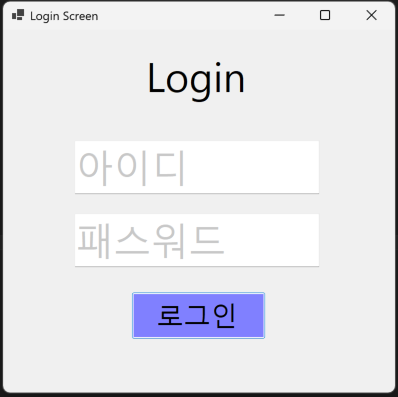
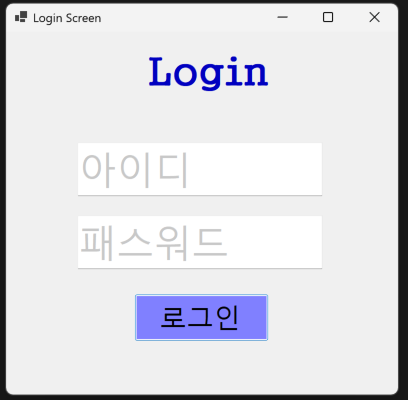
과제2 코딩과 테스트 완료
로그인 실패 시 화면에 에러 메시지가 표시되도록 구현함
Label 컨트롤과 Visible 속성을 사용하여 오류 메시지 표시 기능 추

diff --git a/Form1.Designer.cs b/Form1.Designer.cs
@@ -32,15 +32,17 @@
             txtID = new TextBox();
             btnLogin = new Button();
             txtPW = new TextBox();
+            lblErrorMsg = new Label();
             SuspendLayout();
             // 
             // lblAppName
             // 
             lblAppName.AutoSize = true;
-            lblAppName.Font = new Font("맑은 고딕", 30F);
+            lblAppName.Font = new Font("궁서", 30F, FontStyle.Bold, GraphicsUnit.Point, 129);
+            lblAppName.ForeColor = Color.FromArgb(0, 0, 192);
             lblAppName.Location = new Point(268, 39);
             lblAppName.Name = "lblAppName";
-            lblAppName.Size = new Size(245, 106);
+            lblAppName.Size = new Size(278, 80);
             lblAppName.TabIndex = 3;
             lblAppName.Text = "Login";
             // 
@@ -54,6 +56,7 @@
             txtID.TabIndex = 1;
             txtID.Text = "아이디";
             txtID.Enter += txtID_Enter;
+            txtID.KeyDown += txtID_KeyDown;
             txtID.Leave += txtID_Leave;
             // 
             // btnLogin
@@ -61,7 +64,7 @@
             btnLogin.BackColor = Color.FromArgb(128, 128, 255);
             btnLogin.Font = new Font("맑은 고딕", 20F);
             btnLogin.ForeColor = Color.Black;
-            btnLogin.Location = new Point(257, 525);
+            btnLogin.Location = new Point(249, 555);
             btnLogin.Name = "btnLogin";
             btnLogin.Size = new Size(268, 94);
             btnLogin.TabIndex = 0;
@@ -79,13 +82,26 @@
             txtPW.TabIndex = 2;
             txtPW.Text = "패스워드";
             txtPW.Enter += txtPW_Enter;
+            txtPW.KeyDown += txtPW_KeyDown;
             txtPW.Leave += txtPW_Leave;
+            // 
+            // lblErrorMsg
+            // 
+            lblErrorMsg.AutoSize = true;
+            lblErrorMsg.ForeColor = Color.Red;
+            lblErrorMsg.Location = new Point(143, 490);
+            lblErrorMsg.Name = "lblErrorMsg";
+            lblErrorMsg.Size = new Size(459, 32);
+            lblErrorMsg.TabIndex = 4;
+            lblErrorMsg.Text = "아이디 또는 비밀번호가 잘못 되었습니다.";
+            lblErrorMsg.Visible = false;
             // 
             // Form1
             // 
             AutoScaleDimensions = new SizeF(14F, 32F);
             AutoScaleMode = AutoScaleMode.Font;
             ClientSize = new Size(784, 726);
+            Controls.Add(lblErrorMsg);
             Controls.Add(txtPW);
             Controls.Add(btnLogin);
             Controls.Add(txtID);
@@ -103,5 +119,6 @@
         private TextBox txtID;
         private Button btnLogin;
         private TextBox txtPW;
+        private Label lblErrorMsg;
     }
 }

diff --git a/Form1.cs b/Form1.cs
@@ -7,6 +7,11 @@ namespace LoginScreen
             InitializeComponent();
         }
 
+        private void Form1_Load(object sender, EventArgs e)
+        {
+            // 폼 로드 시 필요한 코드가 있다면 여기에 작성하세요.
+        }
+
         private void txtID_Enter(object sender, EventArgs e)
         {
             if (txtID.Text == "아이디")
@@ -45,10 +50,6 @@ namespace LoginScreen
             }
         }
 
-        private void Form1_Load(object sender, EventArgs e)
-        {
-
-        }
 
         string myID = "admin";
         string myPW = "superman";
@@ -60,11 +61,36 @@ namespace LoginScreen
             if (inputID == myID && inputPW == myPW)
             {
                 MessageBox.Show("로그인 성공!");
+                lblErrorMsg.Visible = false;
             }
             else
             {
-                MessageBox.Show("로그인 실패~");
+                // MessageBox.Show("로그인 실패~");
+
+                // MessageBox.Show("아이디 또는 패스워드가 잘못 입력되었습니다.", "Error", MessageBoxButtons.OK, MessageBoxIcon.Error);
+
+                lblErrorMsg.Visible = true;
             }
+        }
+
+        private void txtID_KeyDown(object sender, KeyEventArgs e)
+        {
+            if (e.KeyCode == Keys.Enter)
+            {
+                e.SuppressKeyPress = true; // 기본 비프음 방지
+                txtPW.Focus(); // 패스워드 입력창이 포커스를 갖게끔
+            }
+
+        }
+
+        private void txtPW_KeyDown(object sender, KeyEventArgs e)
+        {
+            if (e.KeyCode == Keys.Enter)
+            {
+                e.SuppressKeyPress = true; // 기본 비프음 방지
+                btnLogin.PerformClick(); // 버튼이 눌린 것처럼 만들기
+            }
+
         }
     }
 }

diff --git a/README.md b/README.md
@@ -38,3 +38,21 @@
 - 구현 내용과 기능 설명
 	- 처음 실행시 입력 포커스가 버튼으로 가도록 조정.
 	- 아이디와 패스워드를 입력 받는 창에 안내 문구가 표시되도록 구현.
+
+
+## 실행 화면 (과제2)
+- 과제2 코드의 실행 스크린샷
+
+
+![과제2 실행화면](img/img4.png)
+
+
+- 과제 내용
+	- 로그인 실패 시 MessageBox 대신 비밀번호 입력창 아래에 에러 메시지를 표시.
+	- Label 컨트롤을 추가하여 오류 메시지를 출력.
+	- Label의 Visible 속성을 사용하여 평소에는 숨기고, 로그인 실패 시 보이도록 구현함.
+
+- 구현 내용과 기능 설명
+	- 로그인에 성공하면 에러 메시지 Label은 보이지 않도록 설정함.
+	- 로그인에 실패하면 "아이디 또는 비밀번호가 잘못 되었습니다." 문구가 화면에 표시되도록함.
+	- 기존 과제1에서 사용한 로그인 화면을 유지하면서, 실패 알림 방식을 MessageBox에서 화면 표시 방식으로 변경.
